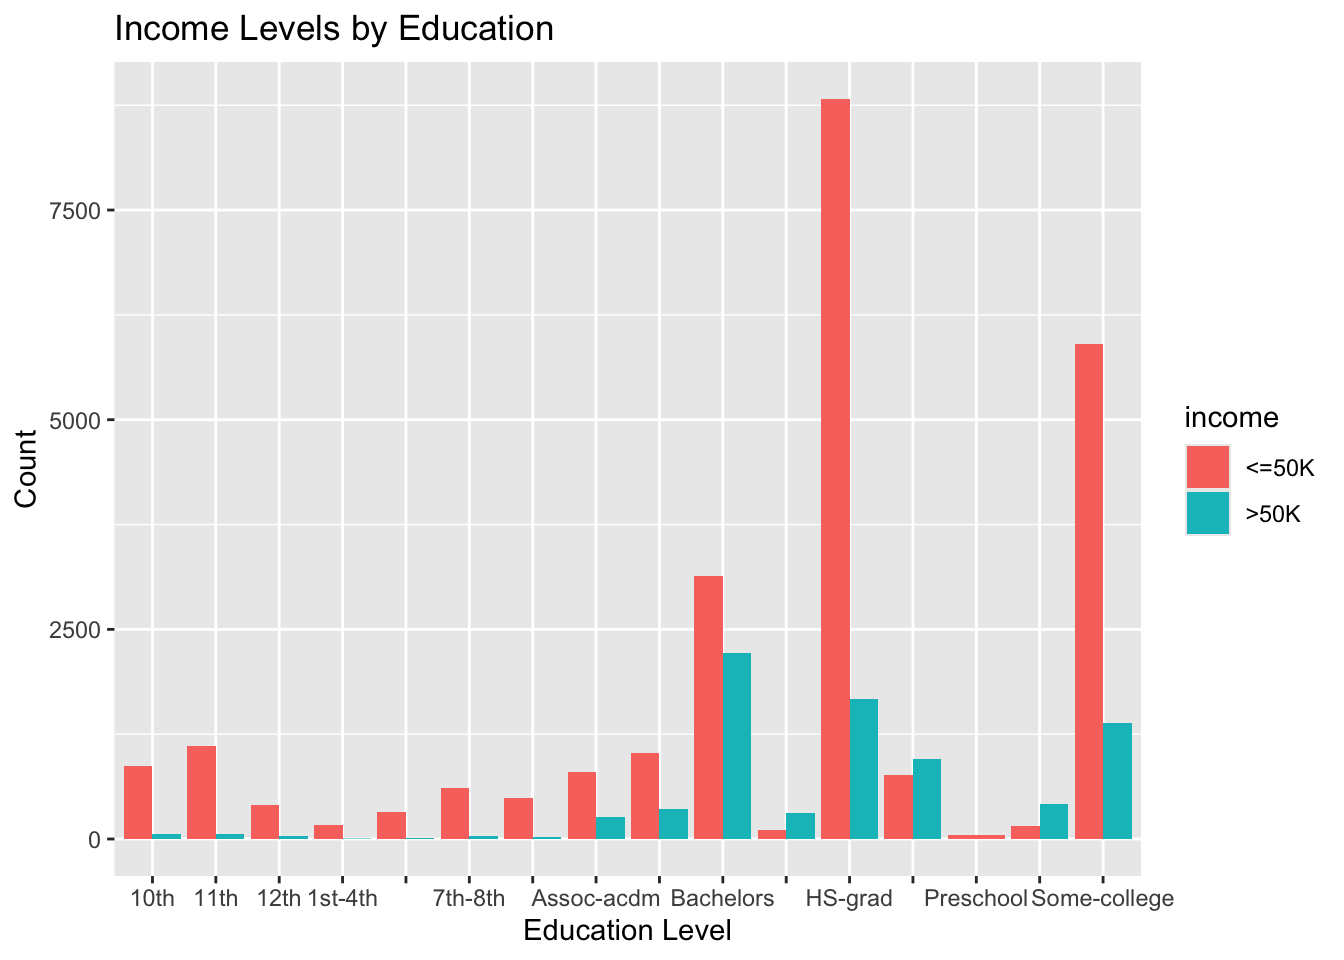
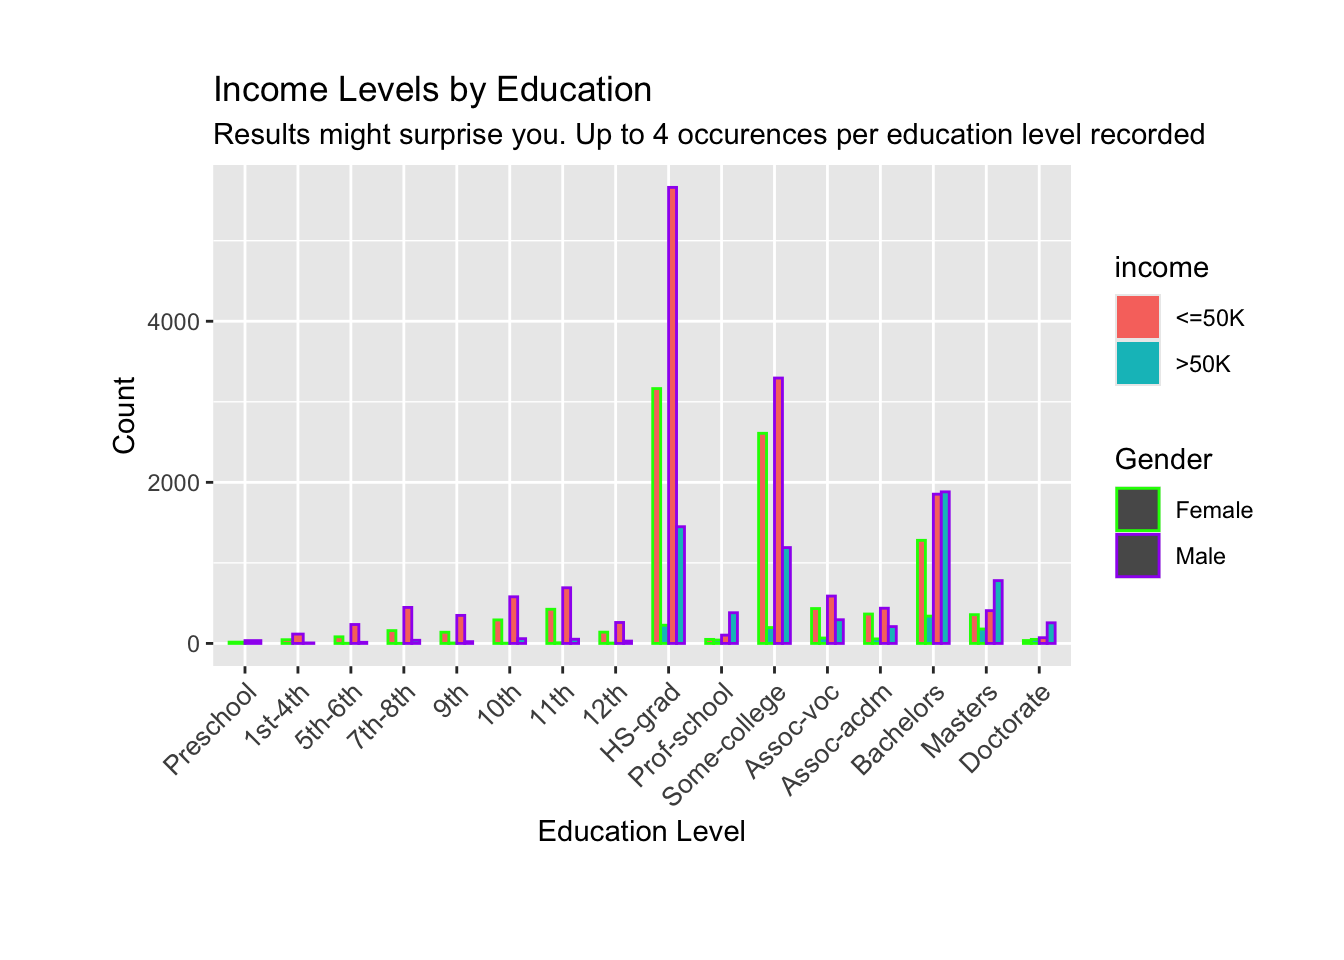
innit wtv

diff --git a/_site/index.html b/_site/index.html
@@ -7,7 +7,7 @@
 <meta name="viewport" content="width=device-width, initial-scale=1.0, user-scalable=yes">
 
 
-<title>Income VS Degree.. - Income VS Degree</title>
+<title>Income VS Degree</title>
 <style>
 code{white-space: pre-wrap;}
 span.smallcaps{font-variant: small-caps;}
@@ -79,7 +79,7 @@ ul.task-list li input[type="checkbox"] {
       <div class="navbar-container container-fluid">
       <div class="navbar-brand-container mx-auto">
     <a class="navbar-brand" href="./index.html">
-    <span class="navbar-title">Income VS Degree..</span>
+    <span class="navbar-title">Income VS Degree</span>
     </a>
   </div>
             <div id="quarto-search" class="" title="Search"></div>
@@ -141,6 +141,7 @@ ul.task-list li input[type="checkbox"] {
 </div>
 </div>
 </div>
+<p>The correlation between degree earned compared to income earned might surprise you. The following data was pulled from kaggle, a dataset of demographic and employment information from age, race, and gender, to hours worked per week to also degree earned. Each level of education has up to 4 bars: 2 per gender, and 2 for over 50k earned or 50k and less earned. The relevant data used was degree earned, salary earned, and gender. For example HS-grad has 4 occurences of both male, female, &gt;50k, and &lt;=50k. The X axis being the level of education and the y axis being the number of occurences. The legend shows the bar plots of which color meant which occurence of salary, and also the gender of the occurences of said income. Other factors like relationship status, and working industry are important, but earning at minimal a college degree seems enough to make atleast 50k income.</p>
 
 
 

diff --git a/_site/about.html b/_site/about.html
@@ -7,7 +7,7 @@
 <meta name="viewport" content="width=device-width, initial-scale=1.0, user-scalable=yes">
 
 
-<title>Income VS Degree.. - About</title>
+<title>Income VS Degree - About</title>
 <style>
 code{white-space: pre-wrap;}
 span.smallcaps{font-variant: small-caps;}
@@ -79,7 +79,7 @@ ul.task-list li input[type="checkbox"] {
       <div class="navbar-container container-fluid">
       <div class="navbar-brand-container mx-auto">
     <a class="navbar-brand" href="./index.html">
-    <span class="navbar-title">Income VS Degree..</span>
+    <span class="navbar-title">Income VS Degree</span>
     </a>
   </div>
             <div id="quarto-search" class="" title="Search"></div>
@@ -132,7 +132,8 @@ ul.task-list li input[type="checkbox"] {
 </header>
 
 
-<p>About this site I am Ansh Kare a student at Green Level and this is my Data science project for David Kane’s class Email: aekare03@gmail.com</p>
+<p>I am Ansh Kare a student at Green Level and this is my Data science project for David Kane’s class</p>
+<p>Email: aekare03@gmail.com</p>
 <p><a href="https://github.com/anshkare/adult-income-vs-degree-earned">My Github</a></p>
 <p><a href="https://bootcamp.davidkane.info/">Where i learnt how to do this</a></p>
 
